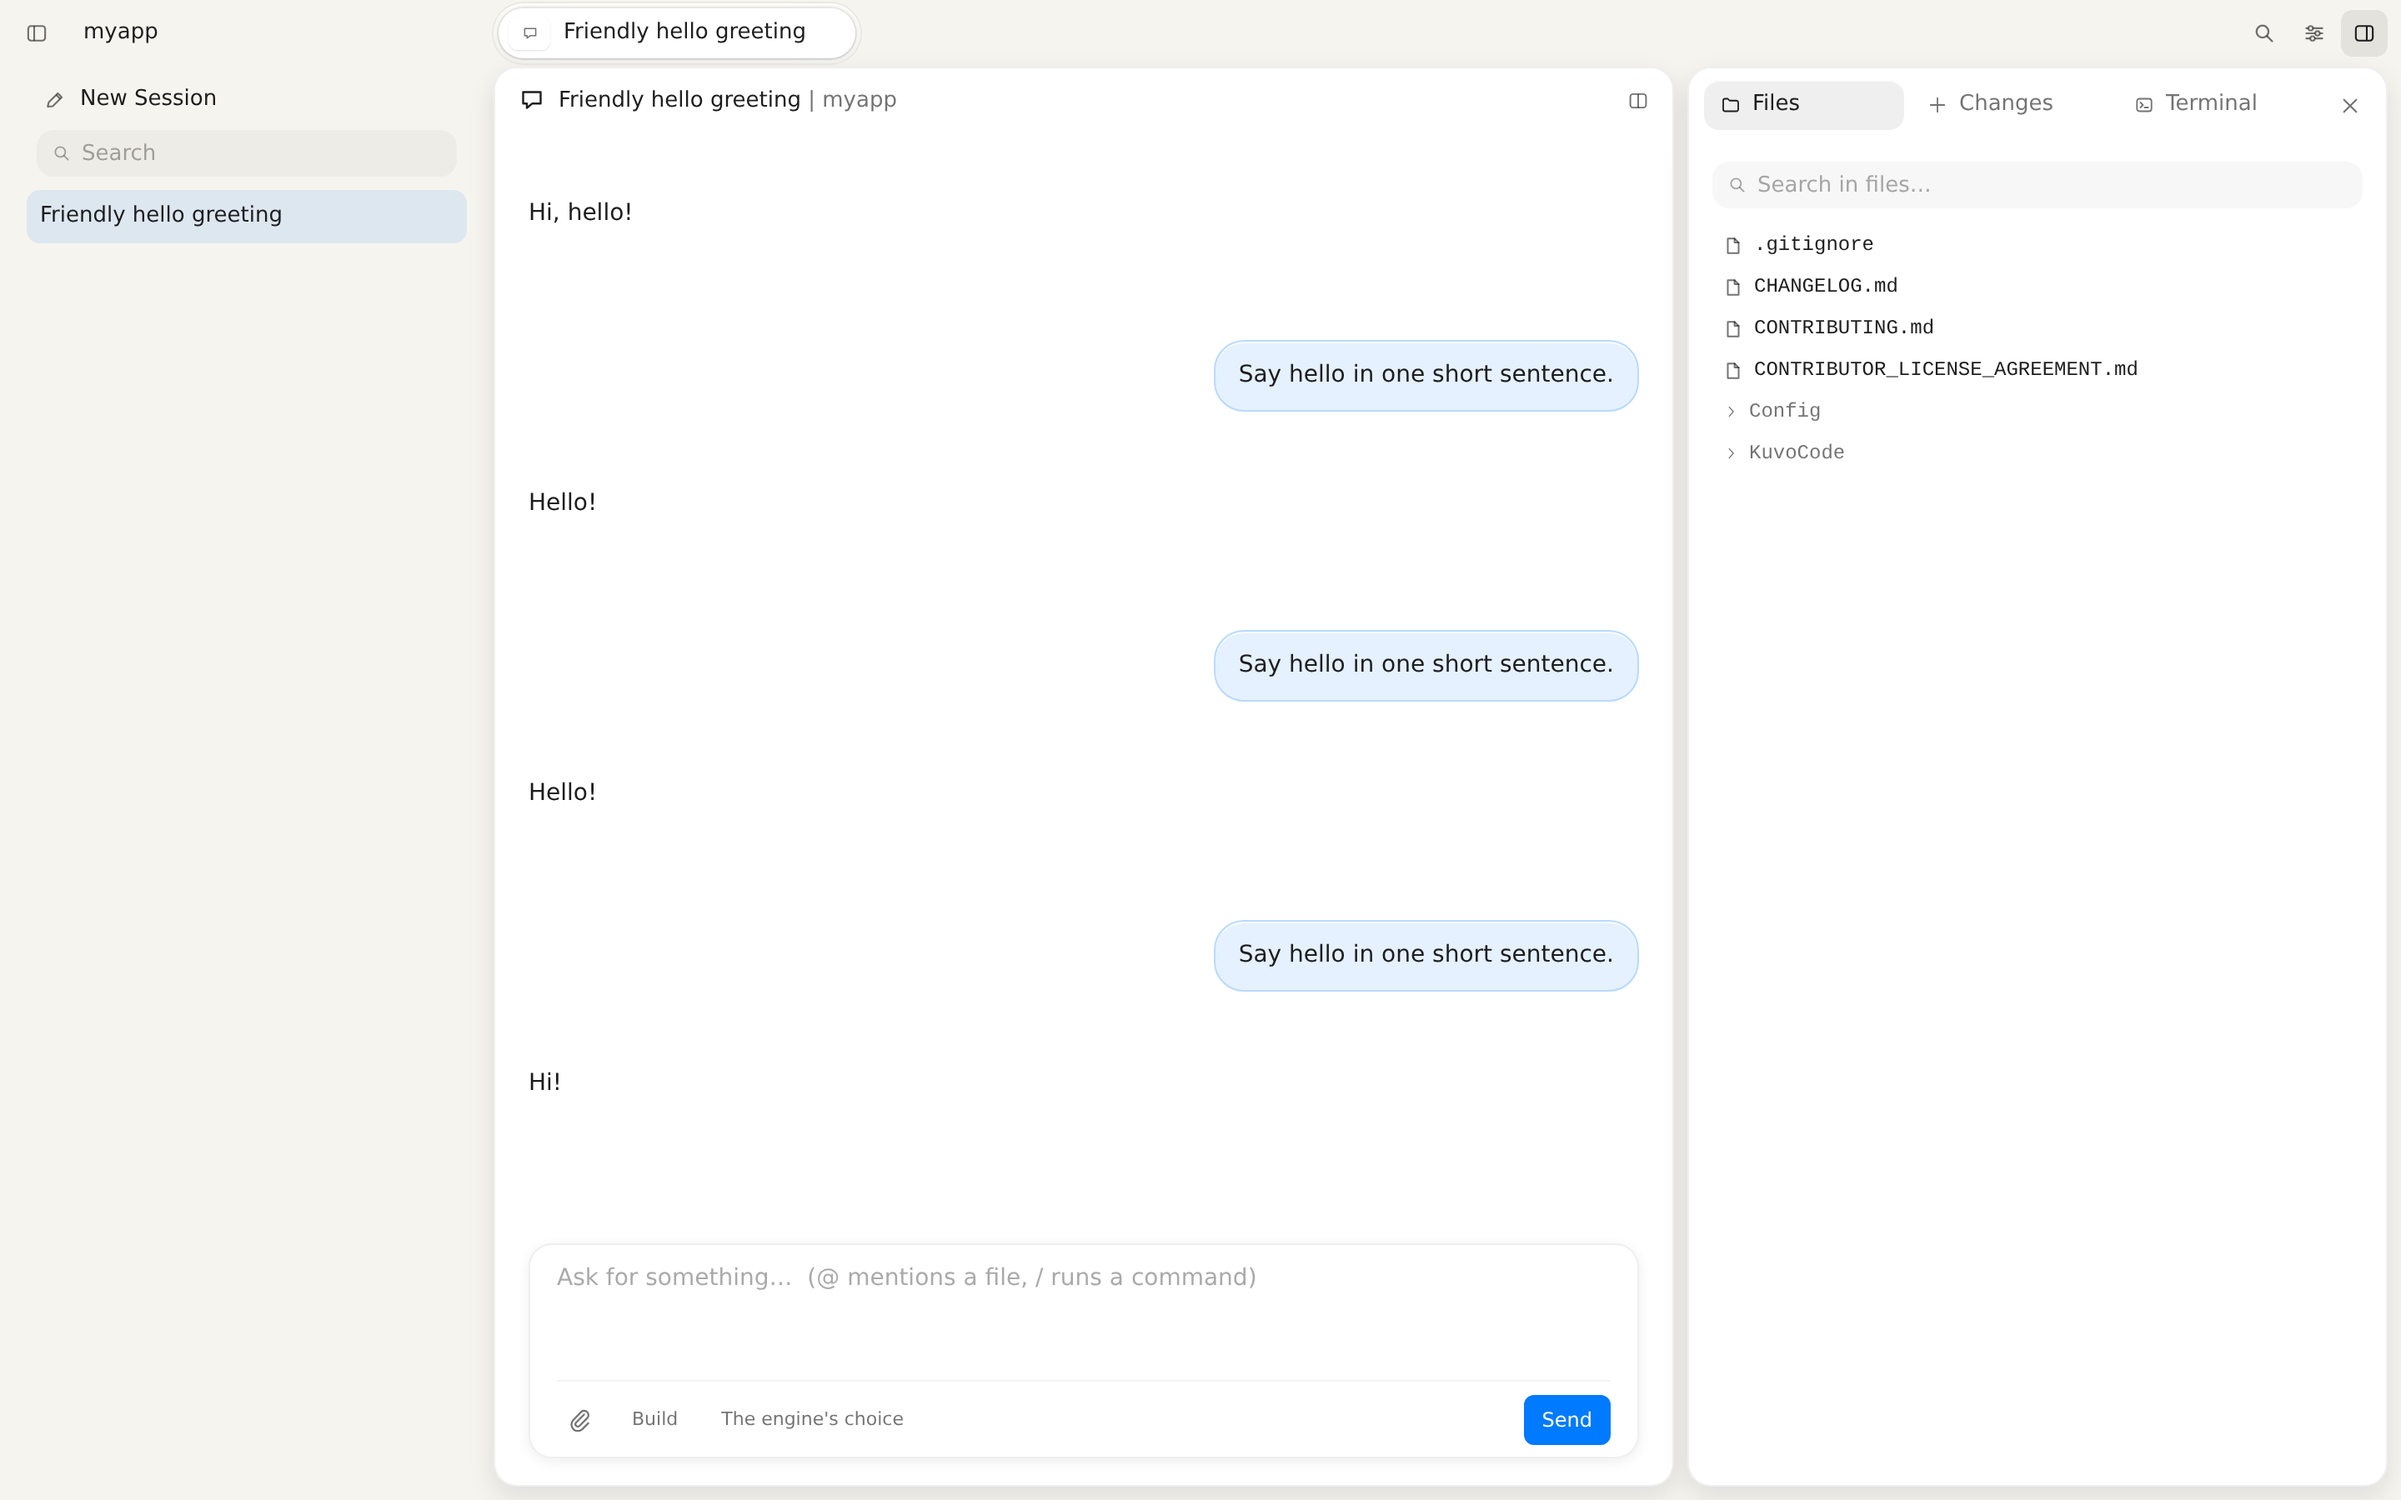
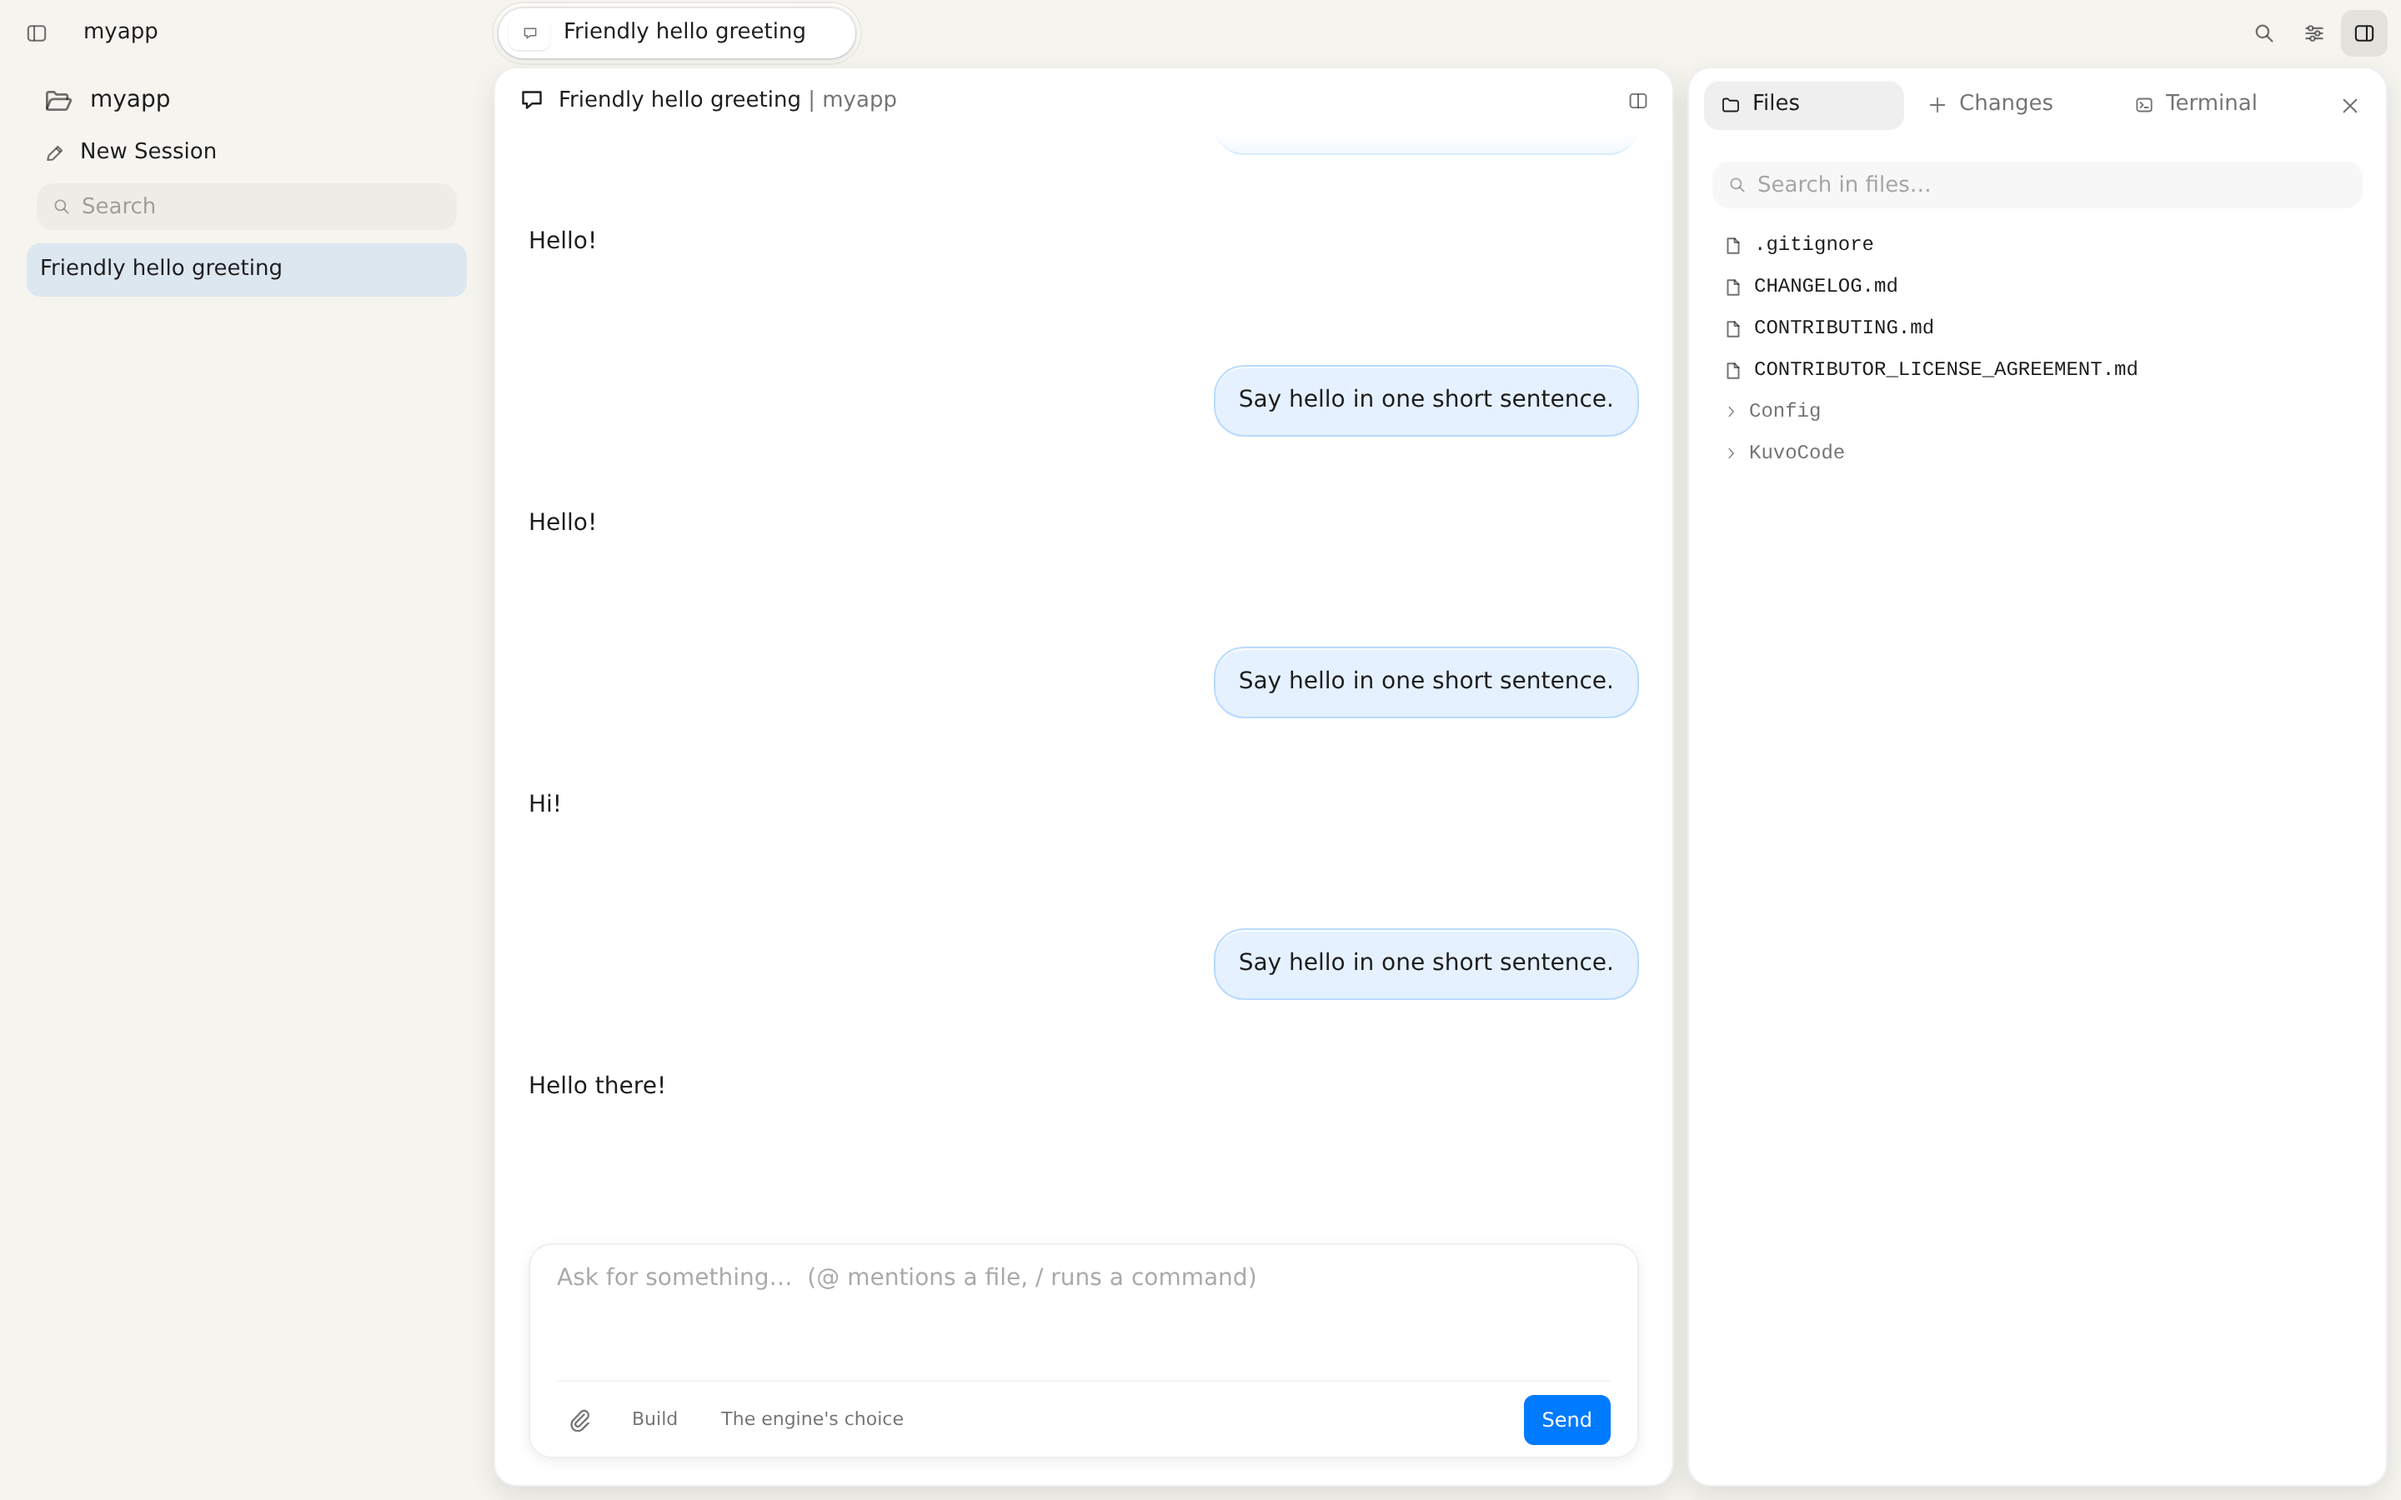
Windows: name the project with the Mac's drawn folder (Phase 6)

diff --git a/windows/app/src/App.tsx b/windows/app/src/App.tsx
@@ -45,7 +45,7 @@ import {
 import { Settings, settingsPageTitle } from "./Settings";
 import { DiffModal, Drawer, Palette, Picker, Toast } from "./Overlays";
 import { Shimmer } from "./components/ai-elements/shimmer";
-import { PromptMark, Symbol } from "./components/symbols";
+import { FolderIcon, PromptMark, Symbol } from "./components/symbols";
 import { motion } from "motion/react";
 import { macSpringOrStill } from "./motion";
 
@@ -990,6 +990,12 @@ async function toggleSplit() {
 
 // ---- The sidebar ----
 
+/// The name of a folder, as the Mac's project row shows it.
+function folderName(path: string) {
+  const name = path.replace(/[/\\]+$/, "").split(/[/\\]+/).pop() ?? path;
+  return name || path;
+}
+
 /// A menu, where the Mac has one (RightClickMenu.swift:4-65): the items, and the place
 /// it was asked for.
 function ContextMenu({ x, y, items, onClose }: {
@@ -1013,6 +1019,8 @@ function Sidebar() {
   const visible = state.sessions
     .filter(session => !archived(session))
     .filter(s => (query ? (s.title || "").toLowerCase().includes(query) : true));
+  // Whether the project is open — the Mac's projects fold (SidebarView.swift:798).
+  const [projectOpen, setProjectOpen] = useState(true);
   // A session being renamed, in its row where Rename was chosen (SidebarView.swift:41-52),
   // and the row's own menu, which is where the Mac offers it (SidebarView.swift:586).
   const [renaming, setRenaming] = useState<string | null>(null);
@@ -1028,6 +1036,32 @@ function Sidebar() {
   };
   return (
     <aside>
+      {/* The project, its folder and its name (SidebarView.swift:795-845): the sessions fold
+          under it, and the compose button shows under the pointer. */}
+      {state.project ? (
+        <div className="sidebar-project">
+          <button
+            id="project-row"
+            className="project-row"
+            onClick={() => { setProjectOpen(open => !open); render(); }}
+            aria-expanded={projectOpen}
+          >
+            <FolderIcon open={projectOpen} size={16} className="project-icon" />
+            <span className="project-name">{folderName(state.project)}</span>
+            <span
+              className="project-compose"
+              title="New Session"
+              role="button"
+              tabIndex={0}
+              onClick={event => { event.stopPropagation(); void newSession(); }}
+              onKeyDown={event => { if (event.key === "Enter") { event.stopPropagation(); void newSession(); } }}
+            >
+              <Symbol name="square.and.pencil" size={13} />
+            </span>
+          </button>
+          {projectOpen ? null : <div className="project-closed" />}
+        </div>
+      ) : null}
       <button id="new-session" className="sidebar-new" onClick={() => void newSession()}>
         <svg viewBox="0 0 16 16" width="14" height="14" fill="none" aria-hidden="true">
           <path d="M3 12.5L3.7 9.6 9.9 3.4l2.7 2.7-6.2 6.2z" stroke="currentColor" strokeWidth="1.2" strokeLinejoin="round" />
@@ -1063,7 +1097,7 @@ function Sidebar() {
         ) : null}
       </label>
       <div className="sidebar-scroll">
-      <ul id="sessions">
+      <ul id="sessions" hidden={!projectOpen}>
         {visible.map(session => {
           const running = state.session?.id === session.id && state.transcript?.running;
           const unread = Boolean(session.time?.idle && session.time?.viewed && session.time.idle > session.time.viewed && session.id !== state.session?.id);

diff --git a/windows/harness/ui/style.css b/windows/harness/ui/style.css
@@ -3239,3 +3239,39 @@ button > svg, .small > svg, .session-delete > svg, .keycap-clear > svg { display
   -webkit-box-orient: vertical;
   overflow: hidden;
 }
+
+/* The project, its folder and its name (SidebarView.swift:795-845): the sessions fold
+   under it, and the compose button shows under the pointer, in place. */
+.sidebar-project { position: relative; }
+.project-row {
+  display: flex;
+  align-items: center;
+  gap: 10px;
+  width: 100%;
+  height: 32px;
+  padding: 0 10px;
+  border: 0;
+  border-radius: var(--radius-row);
+  background: transparent;
+  color: var(--ink);
+  font-size: 14px;
+  text-align: left;
+}
+.project-row:hover { background: var(--hover); }
+.project-icon { flex: 0 0 18px; color: var(--ink-soft); }
+.project-name { flex: 1 1 auto; min-width: 0; overflow: hidden; text-overflow: ellipsis; white-space: nowrap; }
+.project-compose {
+  flex: 0 0 26px;
+  width: 26px;
+  height: 24px;
+  display: inline-flex;
+  align-items: center;
+  justify-content: center;
+  border-radius: 6px;
+  color: var(--ink-soft);
+  opacity: 0;
+  transition: opacity var(--motion-hover) var(--ease-hover);
+}
+.project-row:hover .project-compose,
+.project-row:focus-within .project-compose { opacity: 1; }
+.project-compose:hover { background: var(--hover); color: var(--ink); }

diff --git a/windows/app/src/components/symbols.tsx b/windows/app/src/components/symbols.tsx
@@ -24,7 +24,8 @@ export type SymbolName =
   | "doc"
   | "magnifyingglass"
   | "arrow.triangle.branch"
-  | "arrow.uturn.backward";
+  | "arrow.uturn.backward"
+  | "square.and.pencil";
 
 /// The paths, on the 16 pt grid, in the Mac's own order.
 const PATHS: Record<SymbolName, string[]> = {
@@ -41,6 +42,7 @@ const PATHS: Record<SymbolName, string[]> = {
   "magnifyingglass": ["M7 2.6a4.4 4.4 0 1 0 0 8.8 4.4 4.4 0 0 0 0-8.8Z", "M10.4 10.4L13.4 13.4"],
   "arrow.triangle.branch": ["M5.2 2.6v7.2a2.6 2.6 0 0 0 2.6 2.6h4.4", "M5.2 2.6L2.6 5.2M5.2 2.6l2.6 2.6", "M11 9.6h1.2a1.4 1.4 0 0 0 1.4-1.4V4.4", "M11 9.6L9.4 8M11 9.6l1.6-1.6"],
   "arrow.uturn.backward": ["M4 6.6h5.4a3.4 3.4 0 0 1 0 6.8H6.6", "M6.6 3.6L3.4 6.6l3.2 3"],
+  "square.and.pencil": ["M9.2 3.2h3.6v3.6", "M9.4 6.4L4.2 11.6l-2 .6.6-2 .4.6.6-2-1.4.4 4.2-4.2z"],
 };
 
 export interface SymbolProps {

diff --git a/docs/MAC-UI-MAP.md b/docs/MAC-UI-MAP.md
@@ -624,7 +624,7 @@ interpretation of it.
 | **— The platform** | The window is built by Next.js (a static export the harness serves) and the page is read in a real browser in CI; the look and the behaviour do not move | — | 0.5.41 |
 | **4. Icons** | 89 symbols → drawn SVGs; FolderIcon; PromptMark; provider logos; remove text glyphs and the naked `@` | §7 | 0.5.42 ✅ |
 | **5. Wording** | 1 208 sites compared; menus, tooltips, accessibility labels; punctuation | §8 | 0.5.43 ✅ (the shell's words; the rest with the screens) |
-| **6. Screens** | Sidebar + title bar; transcript; composer + queue + gauge; palette + drawer; settings (14 existing + 3 missing: Notifications, Privacy, Panel; Worktrees maps to Projects); files/changes/terminal | §6.1–6.3 | 0.5.44 ✅ (the transcript, the gauge, the steps row) · 0.5.45 ✅ (the settings' grouped form) · 0.5.46 ✅ (the rest of the groups; the run that would not end) · 0.5.47 ✅ (the panel's files, as a tree) → 0.5.49 |
+| **6. Screens** | Sidebar + title bar; transcript; composer + queue + gauge; palette + drawer; settings (14 existing + 3 missing: Notifications, Privacy, Panel; Worktrees maps to Projects); files/changes/terminal | §6.1–6.3 | 0.5.44 ✅ (the transcript, the gauge, the steps row) · 0.5.45 ✅ (the settings' grouped form) · 0.5.46 ✅ (the rest of the groups; the run that would not end) · 0.5.47 ✅ (the panel's files, as a tree) · 0.5.55 ✅ (the project's drawn folder) → 0.5.49 |
 | **7. Gestures & micro-UX** | Rename, double-click, resize grabber, history, popover flip, clear/remove/badge behaviours, find and search field shape | §9 | 0.5.48 ✅ (the rename, the grabber, the history) · 0.5.49 ✅ (the find bar) · 0.5.50 ✅ (the popover that flips, the clear) · 0.5.52 ✅ (the actions under a message) · 0.5.53 ✅ (the disabled and remove states) · 0.5.54 ✅ (the quote card, the message menu) |
 | **8. Verification** | Full capture matrix, computed-value checks, close every ◐; final side-by-side | all in-scope rows | 0.5.51 ✅ (the matrix and the measured values) |
 

diff --git a/windows/harness/ui/DESIGN.md b/windows/harness/ui/DESIGN.md
@@ -245,7 +245,7 @@ same ones the App Router renders.
 | 3 | Motion: analytic spring, press, shimmer, reduced motion | 0.5.40 ✅ |
 | 4 | Icons: 89 symbols as SVG, six drawn marks | 0.5.42 ✅ |
 | 5 | Wording: 1,208 strings verbatim | 0.5.43 ✅ (the shell) |
-| 6 | Screens: 23 settings pages, transcript, drawers | 0.5.44 ✅ (the transcript, the gauge, the steps row) · 0.5.45 ✅ (the settings' grouped form) · 0.5.46 ✅ (the rest of the groups) · 0.5.47 ✅ (the panel's files, as a tree) |
+| 6 | Screens: 23 settings pages, transcript, drawers | 0.5.44 ✅ (the transcript, the gauge, the steps row) · 0.5.45 ✅ (the settings' grouped form) · 0.5.46 ✅ (the rest of the groups) · 0.5.47 ✅ (the panel's files, as a tree) · 0.5.55 ✅ (the project's drawn folder) |
 | 7 | Gestures and shortcuts | 0.5.48 ✅ (the rename, the grabber, the history) · 0.5.49 ✅ (the find bar) · 0.5.50 ✅ (the popover that flips, the clear) · 0.5.52 ✅ (the actions under a message) · 0.5.53 ✅ (the disabled and remove states) · 0.5.54 ✅ (the quote card, the message menu) |
 | 8 | Verification: capture matrix, real-Mac screenshots | 0.5.51 ✅ (the matrix and the measured values) |
 
